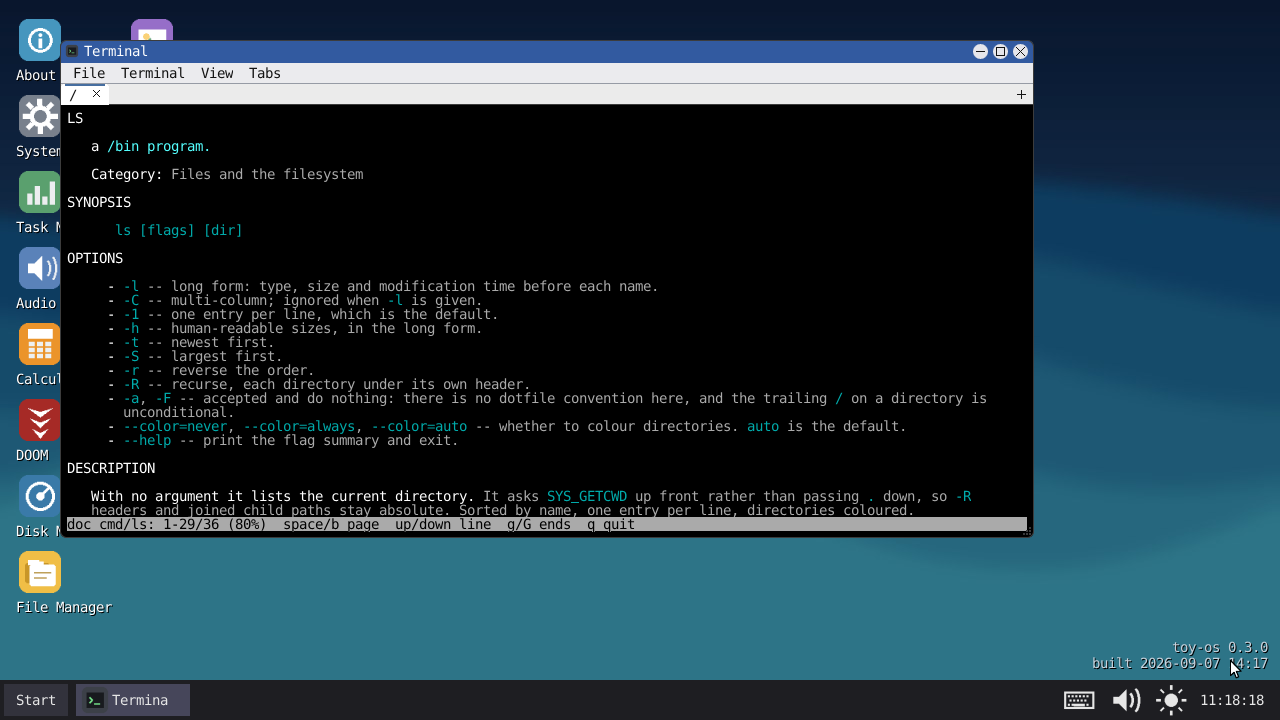
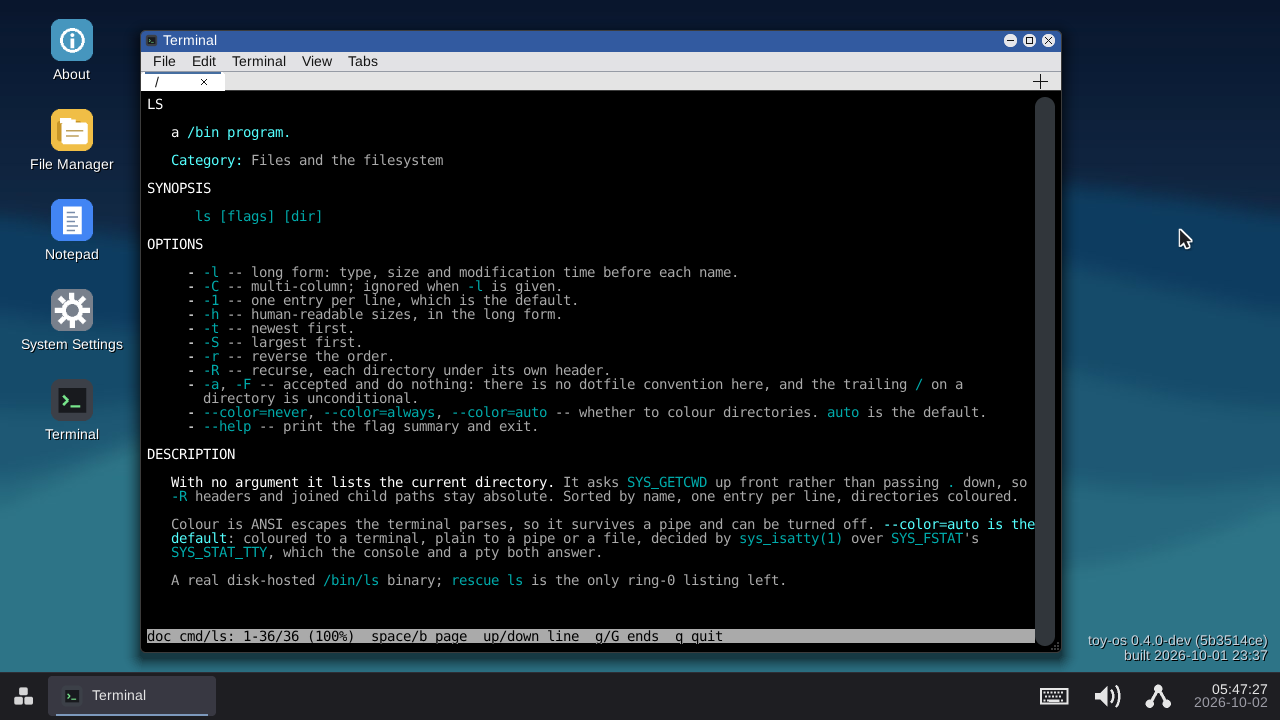
README: retake both screenshots on 0.4.0-dev
Both pictures dated from 0.3.0 and showed the old desktop: square
menus, a text Start button, the old File Manager and no Start menu.

- desktop.png: 1920x1080, the Kickoff-style Start menu open on All Apps
  over the Image Viewer, the redesigned File Manager, the Task
  Manager's Performance page and a Terminal (`about`, `df`).
- shell.png: 1280x720 as before, `doc ls` in the Terminal -- at 1080p
  the page was too small to read at the README's half width.
- The desktop alt text names what is in the new picture.

Files:
- screenshots/readme/desktop.png: the new desktop picture
- screenshots/readme/shell.png: the new Terminal picture
- README.md: alt text matched to the desktop picture

diff --git a/README.md b/README.md
@@ -16,7 +16,7 @@
 </p>
 
 <p align="center">
-  <img src="screenshots/readme/desktop.png" alt="toy-os desktop: the Image Viewer, the File Manager, Notepad, DOOM and a Terminal open at once" width="49%">
+  <img src="screenshots/readme/desktop.png" alt="toy-os desktop: the Start menu open on All Apps, over the Image Viewer, the File Manager, the Task Manager and a Terminal" width="49%">
   <img src="screenshots/readme/shell.png" alt="toy-os Terminal: `doc ls` rendering the ls manual page, headings and code spans styled, paged" width="49%">
 </p>
 
